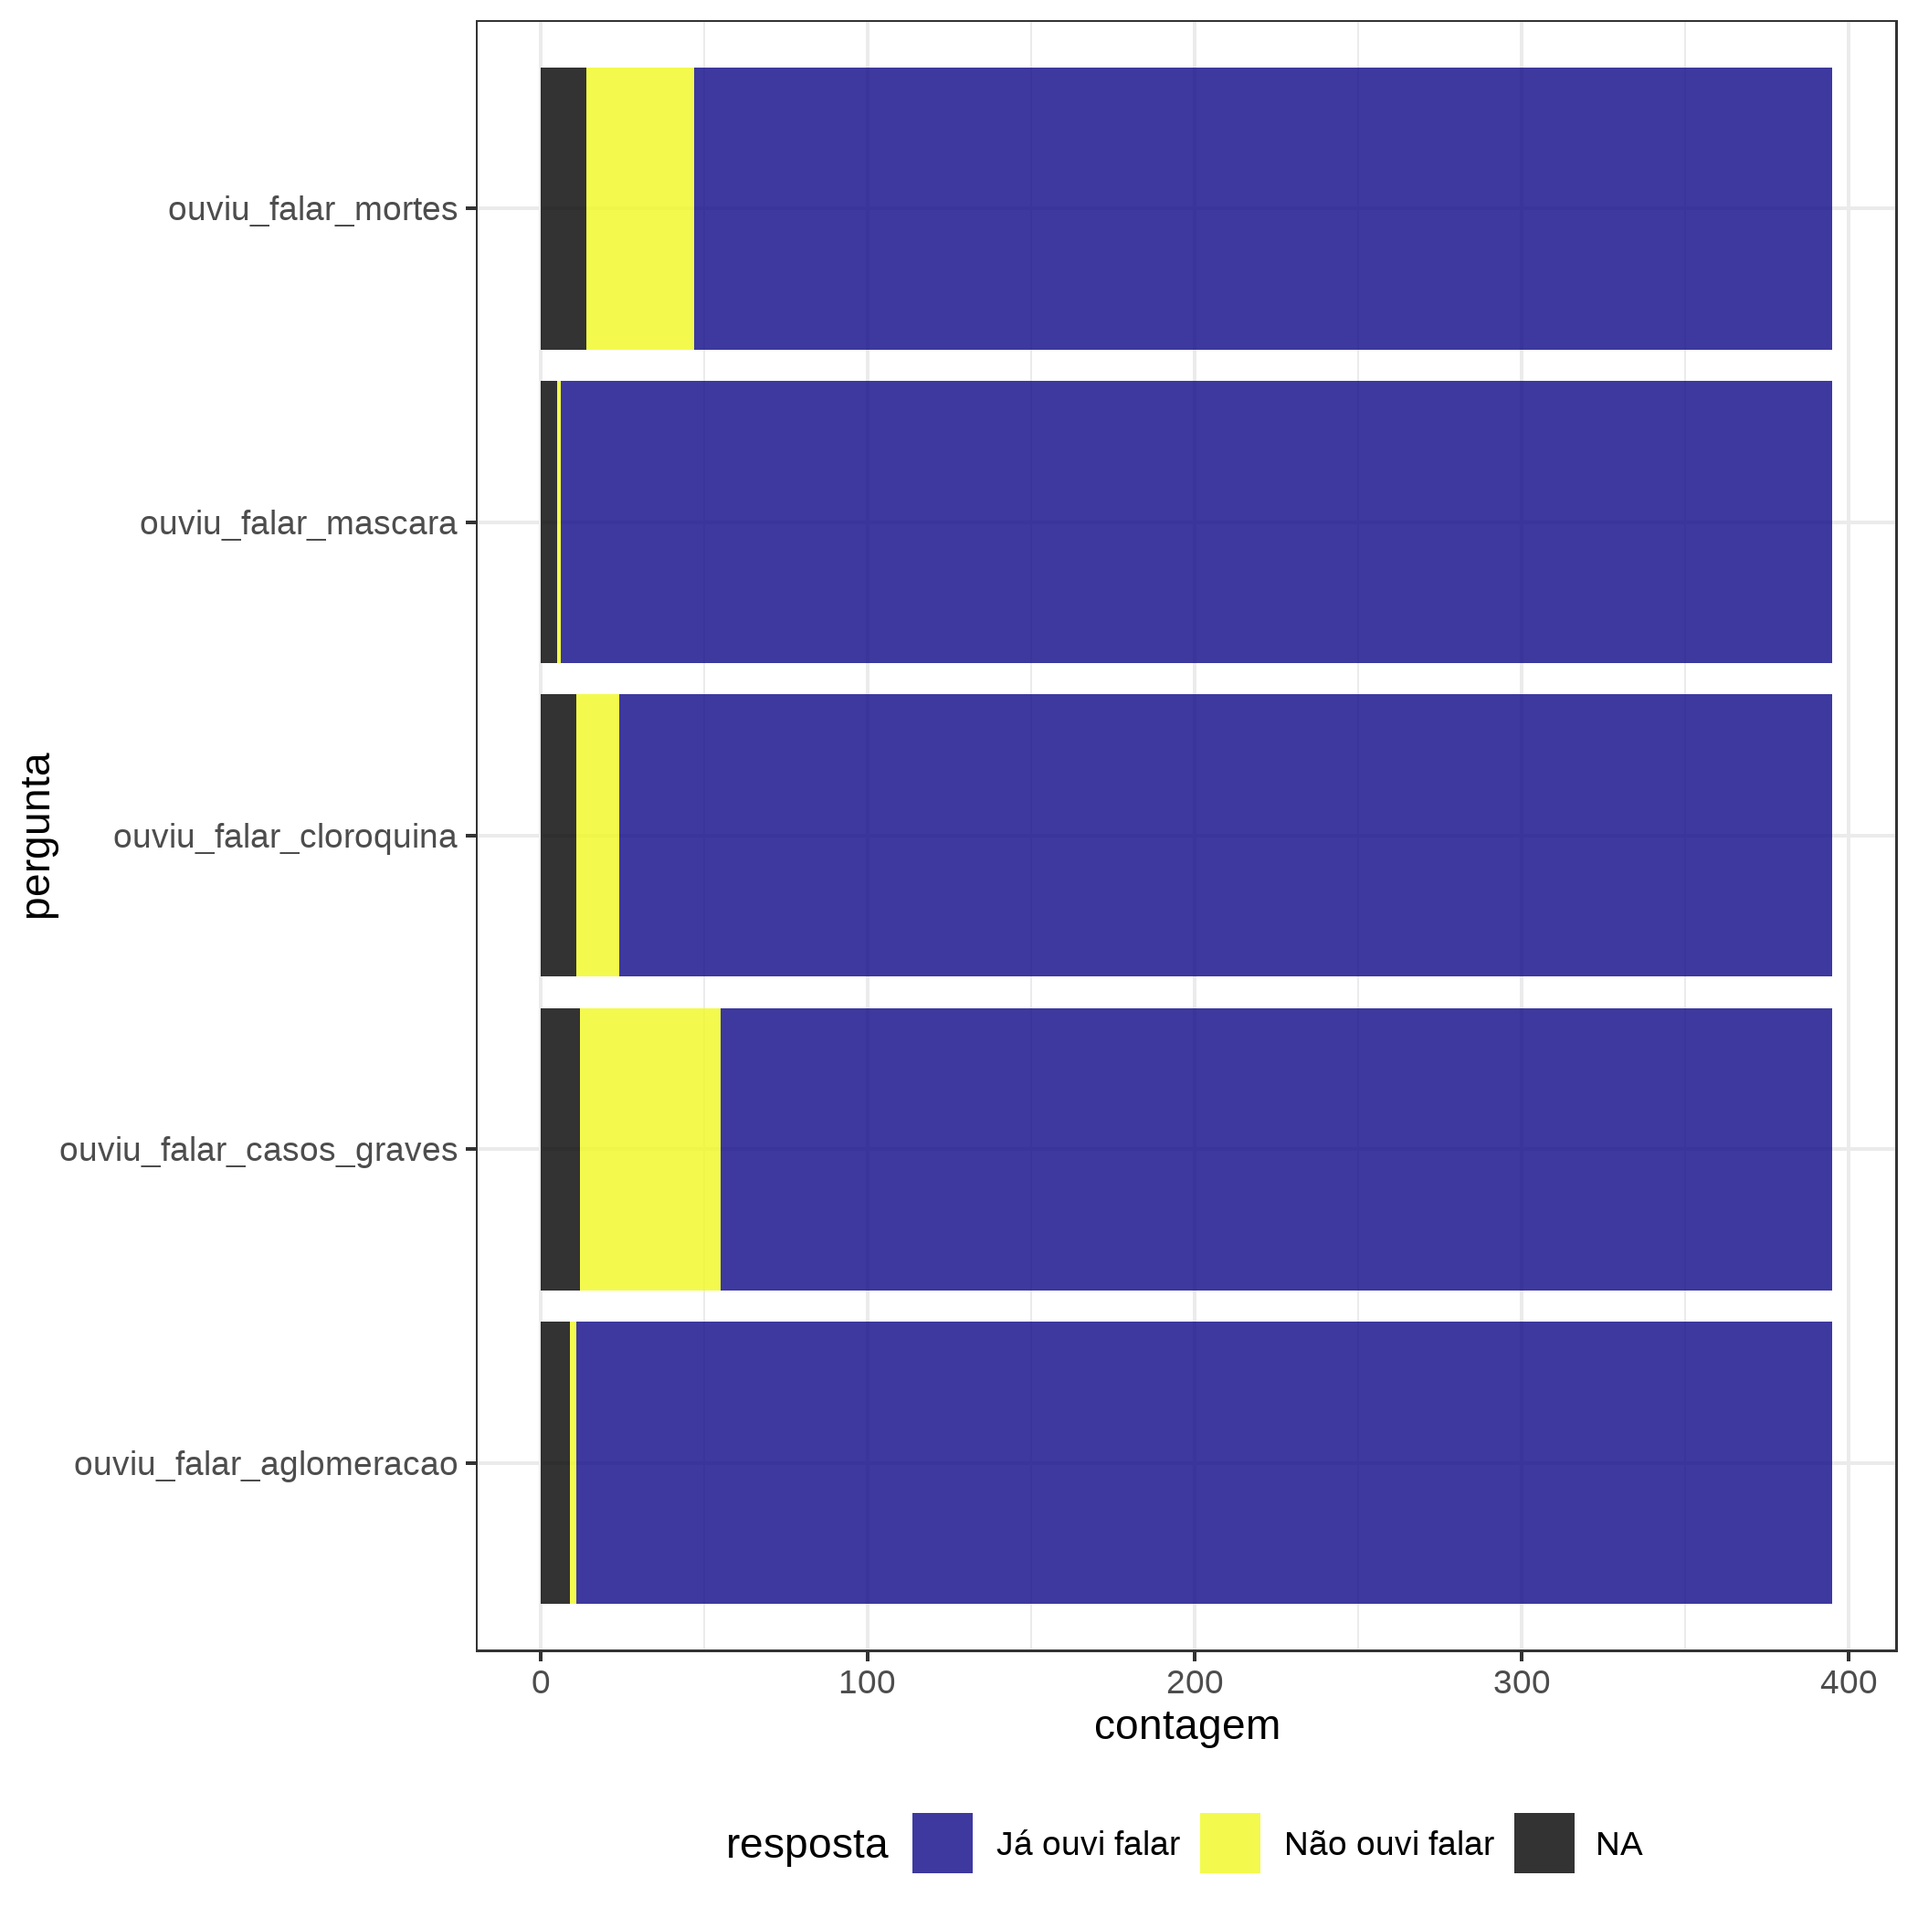
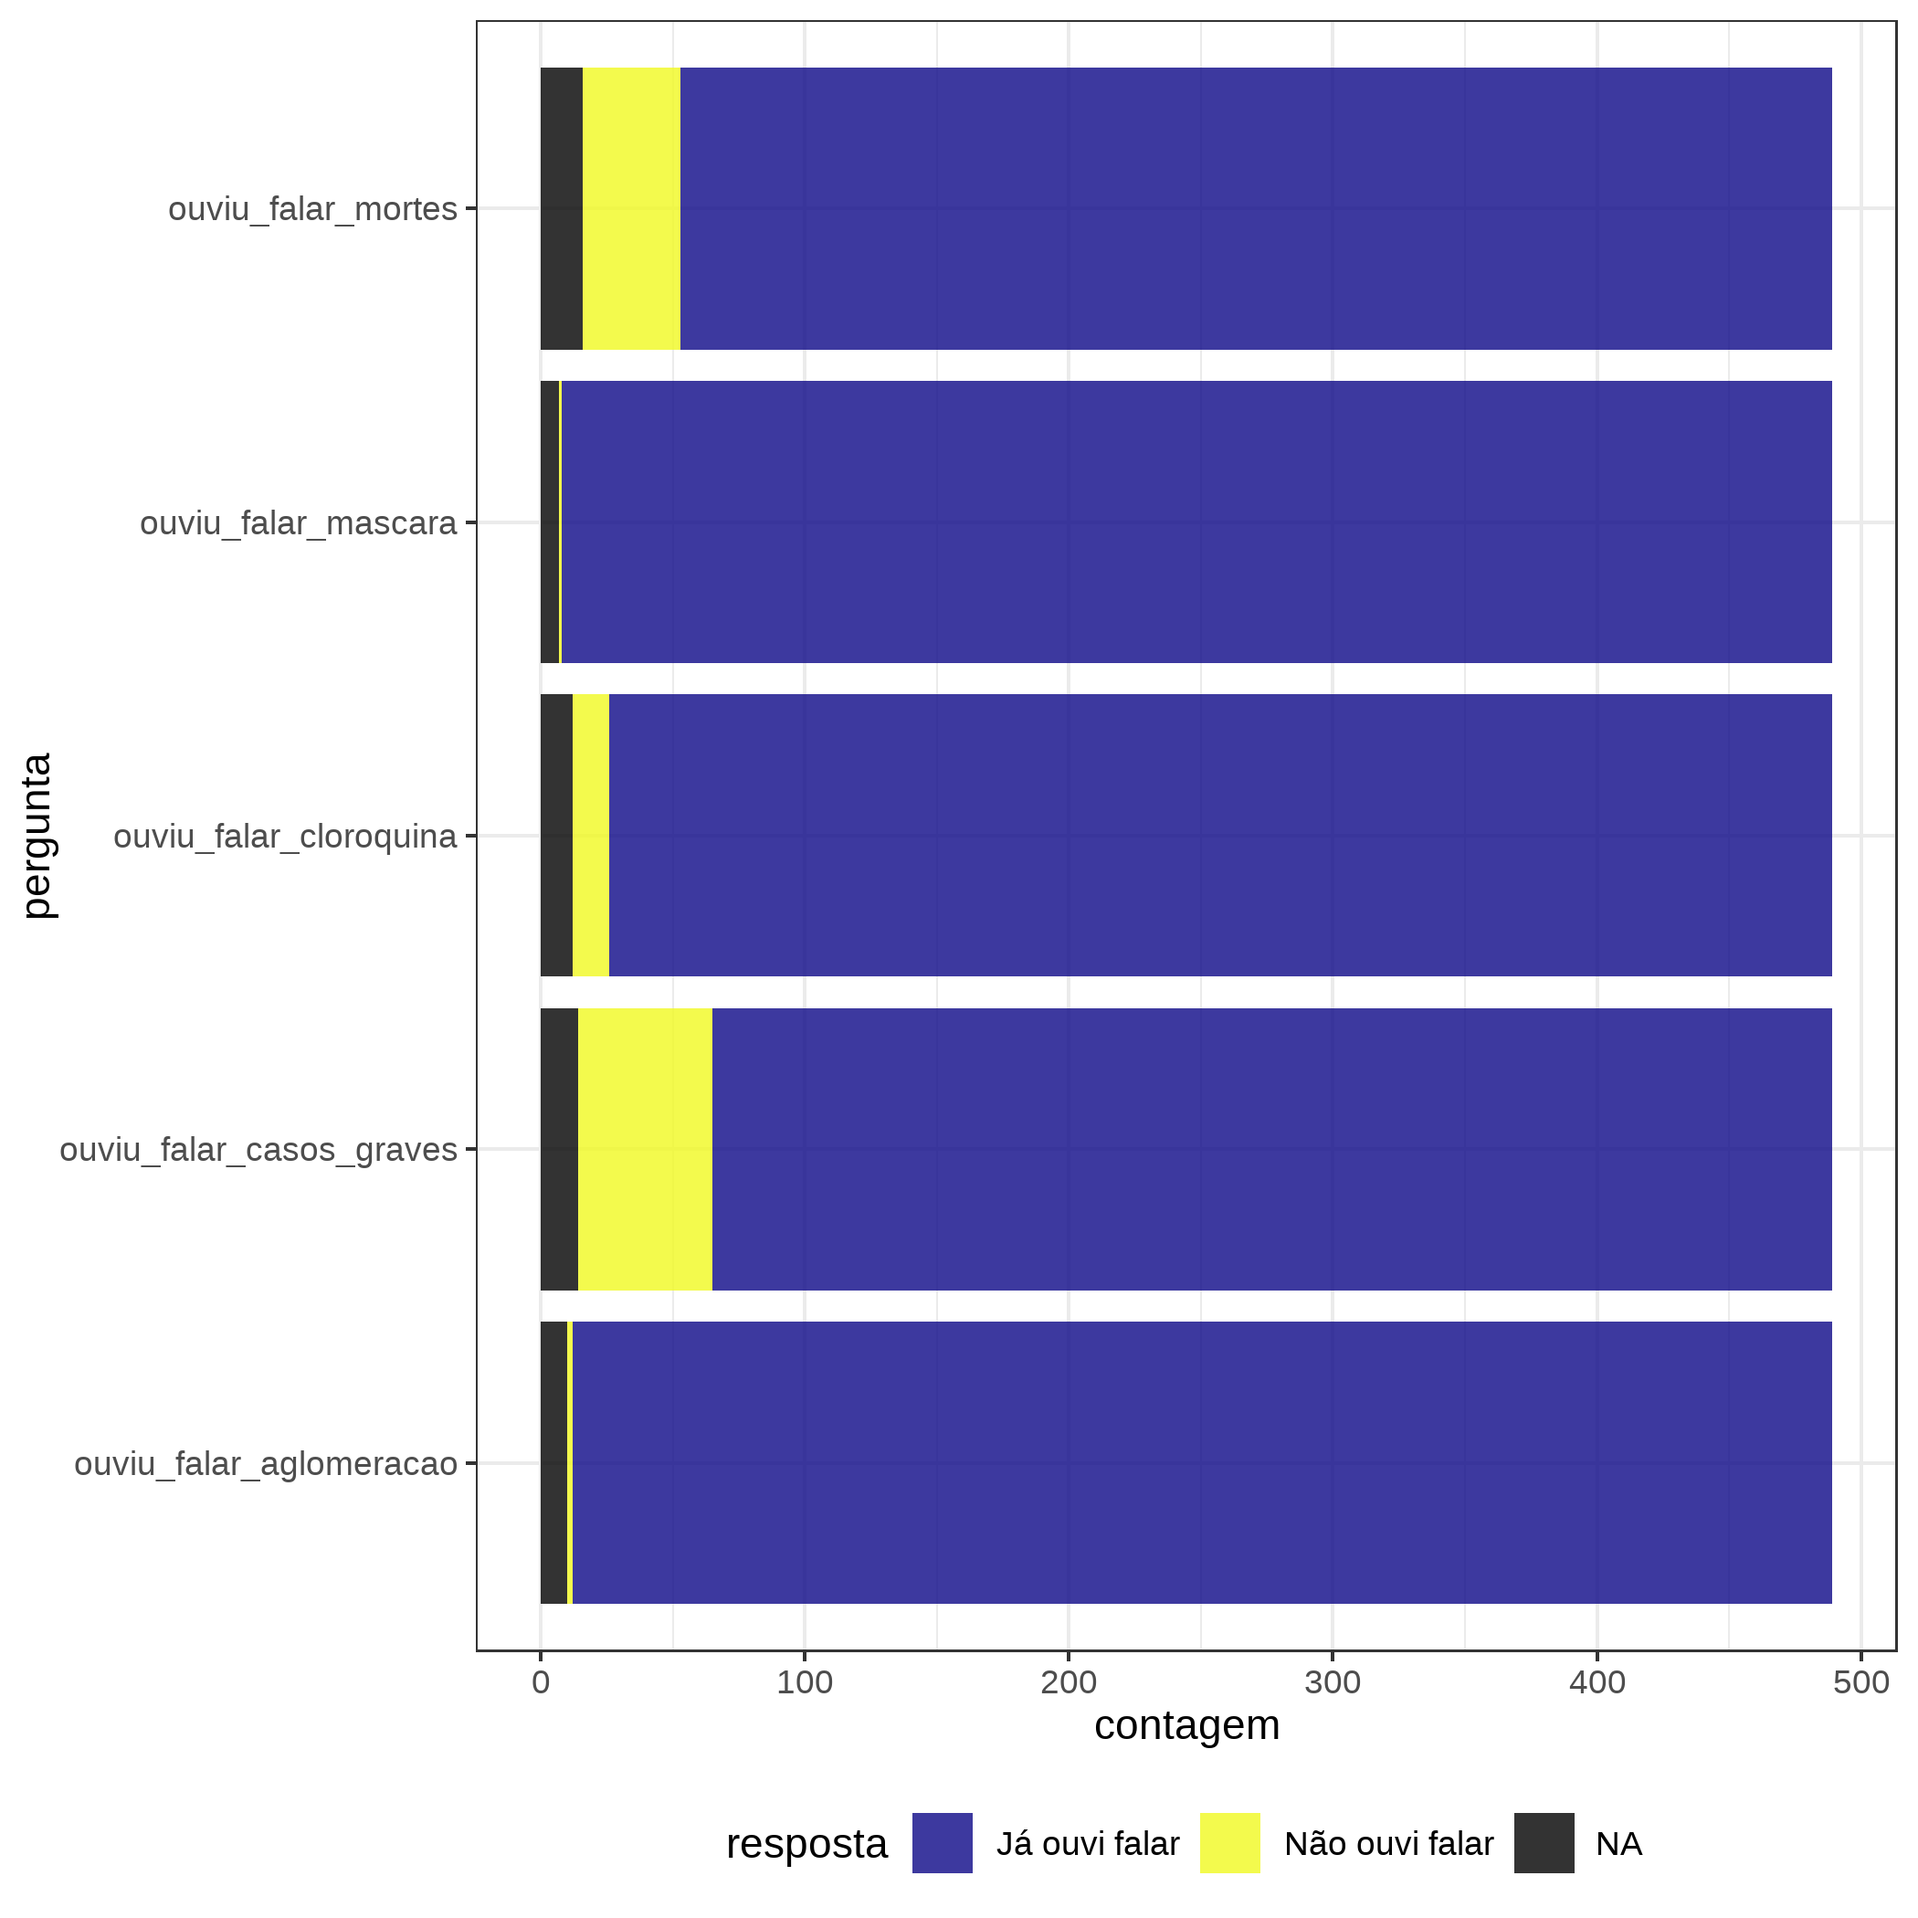
atualiza apresentação com dados atualizados

diff --git a/apresentacao.html b/apresentacao.html
@@ -4,7 +4,6 @@
     <title>Trabalho final: Informação sobre o Coronavírus</title>
     <meta charset="utf-8" />
     <meta name="author" content="Docente: Jimmy Medeiros - CPDOC - FGV/RJ    Discentes: Beatriz Milz, Ivan Ramalho, Lucas Lemos, Pedro Vitorino, Samuel Maia" />
-    <script src="libs/header-attrs-2.3/header-attrs.js"></script>
     <link rel="stylesheet" href="xaringan-themer.css" type="text/css" />
   </head>
   <body>
@@ -30,17 +29,38 @@ class: center, middle, inverse, title-slide
 ## Nota metodológica
 
 
-- Período de coleta: 02 de agosto, 14h30   até __ de 08, xxhxx.
+- **Período de coleta:** 5 dias - 02 de agosto (14h38) até 07 de agosto, (14h38).
 
-- Divulgação através de redes sociais: Facebook, Twitter, WhatsApp
 
-- Número de respostas (total): ____
+- **Número de respostas (total):** **594**
 
-- Plataforma de questionário utilizada: 
+- **Plataforma de questionário utilizada:** [Qualtrics](https://www.qualtrics.com/pt-br/) (plano CoreXM Professional Trial)
 
 &lt;img src="img/qualtrics_logo.jpg" width="50%" style="display: block; margin: auto;" /&gt;
 
+---
+## Nota metodológica
 
+### Divulgação através de redes sociais:
+
+- **Facebook:** divulgação em grupos (
+[Politicas publicas UFABC](https://www.facebook.com/groups/PoliticasPublicasUFABC/?ref=bookmarks), 
+[Economia Unicamp – Geral](https://www.facebook.com/groups/economicaunicamp/?ref=bookmarks), 
+[CIENCIAS ECONOMICAS UFC](https://www.facebook.com/groups/356997067659468/?ref=bookmarks), 
+[IFCH – UFRGS](https://www.facebook.com/groups/449112015266324/?ref=bookmarks), 
+[Historia – UNICAMP](https://www.facebook.com/groups/458885197481790/?ref=bookmarks), 
+[Economia UFMG](https://www.facebook.com/groups/economiaufmg/?ref=bookmarks), 
+[Ciencias Sociais UFMG](https://www.facebook.com/groups/sociaisufmg/?ref=bookmarks), 
+[Historia UFMG](https://www.facebook.com/groups/historiaufmg/?ref=bookmarks), 
+[Economia UFPE](https://www.facebook.com/groups/112205125557115/?ref=bookmarks), 
+[Direito UFSC](https://www.facebook.com/groups/144935289016921/?ref=bookmarks), 
+[Ciencias Politica – UnB](https://www.facebook.com/groups/cienciapoliticaunb/?ref=bookmarks), 
+[Filosofia Unicamp – aberto](https://www.facebook.com/groups/219280108140140/?ref=bookmarks).
+)
+
+- **Twitter:** compartilhado no perfil de [Beatriz Milz](https://twitter.com/BeaMilz/status/1290297160638926849) (11 Curtidas, 10 Retweets, 607 Impressões, 60 Engajamentos) e [Pedro Vitorino](https://twitter.com/peu_cesar/status/1290301211305025536) (2 Curtidas, 1 Retweet, ?? impressões, ? engajamentos).
+
+- **WhatsApp:** envio para familiares, grupos da faculdade.
 
 
 
@@ -90,7 +110,7 @@ Os dados foram exportados do Qualtrics como arquivo `.csv`
 
 
 - Número de respostas depois da organização e limpeza da base de dados: 
-**395  respostas**
+**489  respostas**
 
 ---
 
@@ -111,19 +131,19 @@ Os dados foram exportados do Qualtrics como arquivo `.csv`
 &lt;tbody&gt;
   &lt;tr&gt;
    &lt;td style="text-align:left;"&gt; Feminino &lt;/td&gt;
-   &lt;td style="text-align:right;"&gt; 73.7 &lt;/td&gt;
+   &lt;td style="text-align:right;"&gt; 71.4 &lt;/td&gt;
   &lt;/tr&gt;
   &lt;tr&gt;
    &lt;td style="text-align:left;"&gt; Masculino &lt;/td&gt;
-   &lt;td style="text-align:right;"&gt; 25.1 &lt;/td&gt;
+   &lt;td style="text-align:right;"&gt; 26.6 &lt;/td&gt;
   &lt;/tr&gt;
   &lt;tr&gt;
    &lt;td style="text-align:left;"&gt; Prefiro não responder &lt;/td&gt;
-   &lt;td style="text-align:right;"&gt; 1.0 &lt;/td&gt;
+   &lt;td style="text-align:right;"&gt; 1.6 &lt;/td&gt;
   &lt;/tr&gt;
   &lt;tr&gt;
    &lt;td style="text-align:left;"&gt; NA &lt;/td&gt;
-   &lt;td style="text-align:right;"&gt; 0.3 &lt;/td&gt;
+   &lt;td style="text-align:right;"&gt; 0.4 &lt;/td&gt;
   &lt;/tr&gt;
 &lt;/tbody&gt;
 &lt;/table&gt;
@@ -144,27 +164,27 @@ Os dados foram exportados do Qualtrics como arquivo `.csv`
 &lt;tbody&gt;
   &lt;tr&gt;
    &lt;td style="text-align:left;"&gt; Centro-Oeste &lt;/td&gt;
-   &lt;td style="text-align:right;"&gt; 0.5 &lt;/td&gt;
+   &lt;td style="text-align:right;"&gt; 0.6 &lt;/td&gt;
   &lt;/tr&gt;
   &lt;tr&gt;
    &lt;td style="text-align:left;"&gt; Nordeste &lt;/td&gt;
-   &lt;td style="text-align:right;"&gt; 7.8 &lt;/td&gt;
+   &lt;td style="text-align:right;"&gt; 7.6 &lt;/td&gt;
   &lt;/tr&gt;
   &lt;tr&gt;
    &lt;td style="text-align:left;"&gt; Norte &lt;/td&gt;
-   &lt;td style="text-align:right;"&gt; 0.8 &lt;/td&gt;
+   &lt;td style="text-align:right;"&gt; 0.6 &lt;/td&gt;
   &lt;/tr&gt;
   &lt;tr&gt;
    &lt;td style="text-align:left;"&gt; Sudeste &lt;/td&gt;
-   &lt;td style="text-align:right;"&gt; 83.5 &lt;/td&gt;
+   &lt;td style="text-align:right;"&gt; 80.6 &lt;/td&gt;
   &lt;/tr&gt;
   &lt;tr&gt;
    &lt;td style="text-align:left;"&gt; Sul &lt;/td&gt;
-   &lt;td style="text-align:right;"&gt; 5.3 &lt;/td&gt;
+   &lt;td style="text-align:right;"&gt; 6.3 &lt;/td&gt;
   &lt;/tr&gt;
   &lt;tr&gt;
    &lt;td style="text-align:left;"&gt; NA &lt;/td&gt;
-   &lt;td style="text-align:right;"&gt; 2.0 &lt;/td&gt;
+   &lt;td style="text-align:right;"&gt; 4.3 &lt;/td&gt;
   &lt;/tr&gt;
 &lt;/tbody&gt;
 &lt;/table&gt;
@@ -185,7 +205,7 @@ Os dados foram exportados do Qualtrics como arquivo `.csv`
 &lt;tbody&gt;
   &lt;tr&gt;
    &lt;td style="text-align:left;"&gt; 18 a 24 anos &lt;/td&gt;
-   &lt;td style="text-align:right;"&gt; 19.7 &lt;/td&gt;
+   &lt;td style="text-align:right;"&gt; 20.2 &lt;/td&gt;
   &lt;/tr&gt;
   &lt;tr&gt;
    &lt;td style="text-align:left;"&gt; 25 a 34 anos &lt;/td&gt;
@@ -193,15 +213,15 @@ Os dados foram exportados do Qualtrics como arquivo `.csv`
   &lt;/tr&gt;
   &lt;tr&gt;
    &lt;td style="text-align:left;"&gt; 35 a 44 anos &lt;/td&gt;
-   &lt;td style="text-align:right;"&gt; 19.0 &lt;/td&gt;
+   &lt;td style="text-align:right;"&gt; 18.4 &lt;/td&gt;
   &lt;/tr&gt;
   &lt;tr&gt;
    &lt;td style="text-align:left;"&gt; 45 a 59 anos &lt;/td&gt;
-   &lt;td style="text-align:right;"&gt; 20.8 &lt;/td&gt;
+   &lt;td style="text-align:right;"&gt; 21.3 &lt;/td&gt;
   &lt;/tr&gt;
   &lt;tr&gt;
    &lt;td style="text-align:left;"&gt; 60 a 75 anos &lt;/td&gt;
-   &lt;td style="text-align:right;"&gt; 6.8 &lt;/td&gt;
+   &lt;td style="text-align:right;"&gt; 6.3 &lt;/td&gt;
   &lt;/tr&gt;
 &lt;/tbody&gt;
 &lt;/table&gt;
@@ -222,11 +242,11 @@ Os dados foram exportados do Qualtrics como arquivo `.csv`
 &lt;tbody&gt;
   &lt;tr&gt;
    &lt;td style="text-align:left;"&gt; Área rural &lt;/td&gt;
-   &lt;td style="text-align:right;"&gt; 2 &lt;/td&gt;
+   &lt;td style="text-align:right;"&gt; 2.2 &lt;/td&gt;
   &lt;/tr&gt;
   &lt;tr&gt;
    &lt;td style="text-align:left;"&gt; Área urbana &lt;/td&gt;
-   &lt;td style="text-align:right;"&gt; 98 &lt;/td&gt;
+   &lt;td style="text-align:right;"&gt; 97.8 &lt;/td&gt;
   &lt;/tr&gt;
 &lt;/tbody&gt;
 &lt;/table&gt;
@@ -248,31 +268,31 @@ Os dados foram exportados do Qualtrics como arquivo `.csv`
 &lt;tbody&gt;
   &lt;tr&gt;
    &lt;td style="text-align:left;"&gt; Ensino fundamental completo &lt;/td&gt;
-   &lt;td style="text-align:right;"&gt; 1.8 &lt;/td&gt;
+   &lt;td style="text-align:right;"&gt; 1.6 &lt;/td&gt;
   &lt;/tr&gt;
   &lt;tr&gt;
    &lt;td style="text-align:left;"&gt; Ensino médio incompleto &lt;/td&gt;
-   &lt;td style="text-align:right;"&gt; 1.5 &lt;/td&gt;
+   &lt;td style="text-align:right;"&gt; 1.2 &lt;/td&gt;
   &lt;/tr&gt;
   &lt;tr&gt;
    &lt;td style="text-align:left;"&gt; Ensino médio completo &lt;/td&gt;
-   &lt;td style="text-align:right;"&gt; 7.1 &lt;/td&gt;
+   &lt;td style="text-align:right;"&gt; 6.7 &lt;/td&gt;
   &lt;/tr&gt;
   &lt;tr&gt;
    &lt;td style="text-align:left;"&gt; Ensino superior incompleto &lt;/td&gt;
-   &lt;td style="text-align:right;"&gt; 20.5 &lt;/td&gt;
+   &lt;td style="text-align:right;"&gt; 20.7 &lt;/td&gt;
   &lt;/tr&gt;
   &lt;tr&gt;
    &lt;td style="text-align:left;"&gt; Ensino superior completo &lt;/td&gt;
-   &lt;td style="text-align:right;"&gt; 28.6 &lt;/td&gt;
+   &lt;td style="text-align:right;"&gt; 28.4 &lt;/td&gt;
   &lt;/tr&gt;
   &lt;tr&gt;
    &lt;td style="text-align:left;"&gt; Pós-graduação incompleta &lt;/td&gt;
-   &lt;td style="text-align:right;"&gt; 9.1 &lt;/td&gt;
+   &lt;td style="text-align:right;"&gt; 9.0 &lt;/td&gt;
   &lt;/tr&gt;
   &lt;tr&gt;
    &lt;td style="text-align:left;"&gt; Pós-graduação completa &lt;/td&gt;
-   &lt;td style="text-align:right;"&gt; 31.4 &lt;/td&gt;
+   &lt;td style="text-align:right;"&gt; 32.3 &lt;/td&gt;
   &lt;/tr&gt;
 &lt;/tbody&gt;
 &lt;/table&gt;
@@ -294,15 +314,15 @@ Os dados foram exportados do Qualtrics como arquivo `.csv`
 &lt;tbody&gt;
   &lt;tr&gt;
    &lt;td style="text-align:left;"&gt; Até R$ 1045,00 (até 1 Salário Mínimo) &lt;/td&gt;
-   &lt;td style="text-align:right;"&gt; 5.8 &lt;/td&gt;
+   &lt;td style="text-align:right;"&gt; 6.7 &lt;/td&gt;
   &lt;/tr&gt;
   &lt;tr&gt;
    &lt;td style="text-align:left;"&gt; De R$ 1045 a R$ 2.090 (+ de 1 até 2 Salários Mínimos) &lt;/td&gt;
-   &lt;td style="text-align:right;"&gt; 13.2 &lt;/td&gt;
+   &lt;td style="text-align:right;"&gt; 12.3 &lt;/td&gt;
   &lt;/tr&gt;
   &lt;tr&gt;
    &lt;td style="text-align:left;"&gt; De R$ 2.090 a R$ 3.135 (+ de 2 até 3 Salários Mínimos) &lt;/td&gt;
-   &lt;td style="text-align:right;"&gt; 14.9 &lt;/td&gt;
+   &lt;td style="text-align:right;"&gt; 14.1 &lt;/td&gt;
   &lt;/tr&gt;
   &lt;tr&gt;
    &lt;td style="text-align:left;"&gt; De R$3.135 a R$5.225 (+ de 3 até 5 Salários Mínimos) &lt;/td&gt;
@@ -310,11 +330,11 @@ Os dados foram exportados do Qualtrics como arquivo `.csv`
   &lt;/tr&gt;
   &lt;tr&gt;
    &lt;td style="text-align:left;"&gt; De R$5.225 a R$10.450 (+ de 5 até 10 Salários Mínimos) &lt;/td&gt;
-   &lt;td style="text-align:right;"&gt; 27.6 &lt;/td&gt;
+   &lt;td style="text-align:right;"&gt; 28.4 &lt;/td&gt;
   &lt;/tr&gt;
   &lt;tr&gt;
    &lt;td style="text-align:left;"&gt; De R$10.450 a R$15.675 (+ de 10 até 15 Salários Mínimos) &lt;/td&gt;
-   &lt;td style="text-align:right;"&gt; 10.6 &lt;/td&gt;
+   &lt;td style="text-align:right;"&gt; 10.0 &lt;/td&gt;
   &lt;/tr&gt;
   &lt;tr&gt;
    &lt;td style="text-align:left;"&gt; De R$15.675 a R$20.900 (+ de 15 até 20 Salários Mínimos) &lt;/td&gt;
@@ -322,11 +342,11 @@ Os dados foram exportados do Qualtrics como arquivo `.csv`
   &lt;/tr&gt;
   &lt;tr&gt;
    &lt;td style="text-align:left;"&gt; Mais de R$20.900,00 (+ de 20 Salários Mínimos) &lt;/td&gt;
-   &lt;td style="text-align:right;"&gt; 3.5 &lt;/td&gt;
+   &lt;td style="text-align:right;"&gt; 3.9 &lt;/td&gt;
   &lt;/tr&gt;
   &lt;tr&gt;
    &lt;td style="text-align:left;"&gt; NA &lt;/td&gt;
-   &lt;td style="text-align:right;"&gt; 1.0 &lt;/td&gt;
+   &lt;td style="text-align:right;"&gt; 1.2 &lt;/td&gt;
   &lt;/tr&gt;
 &lt;/tbody&gt;
 &lt;/table&gt;
